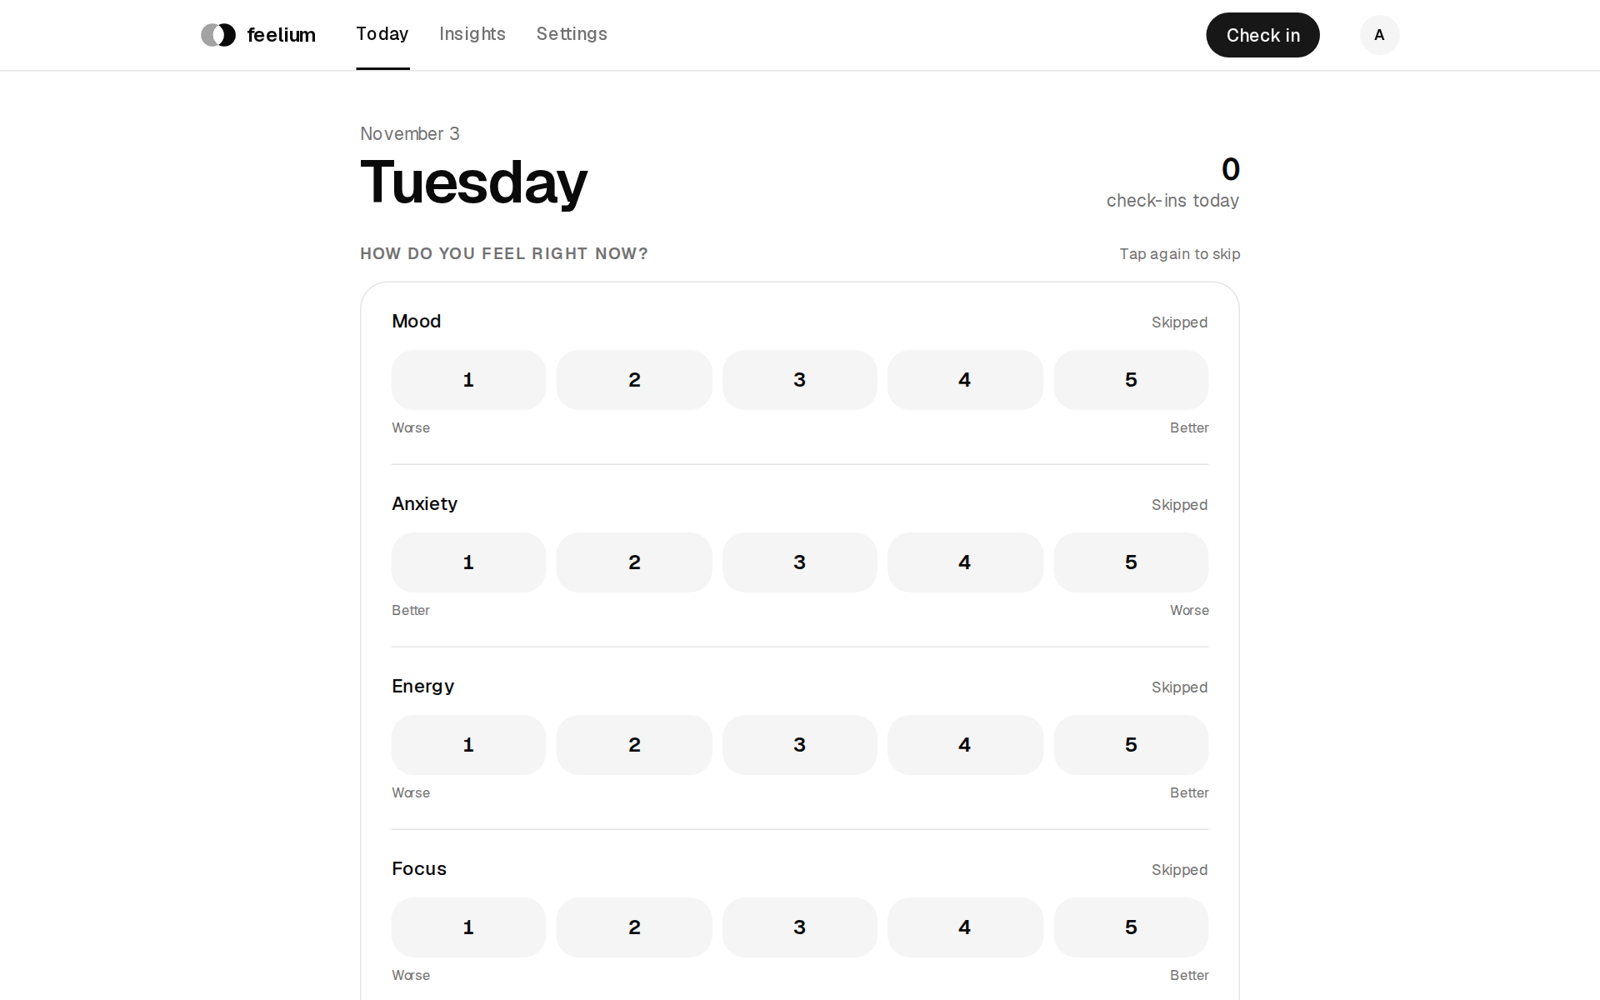
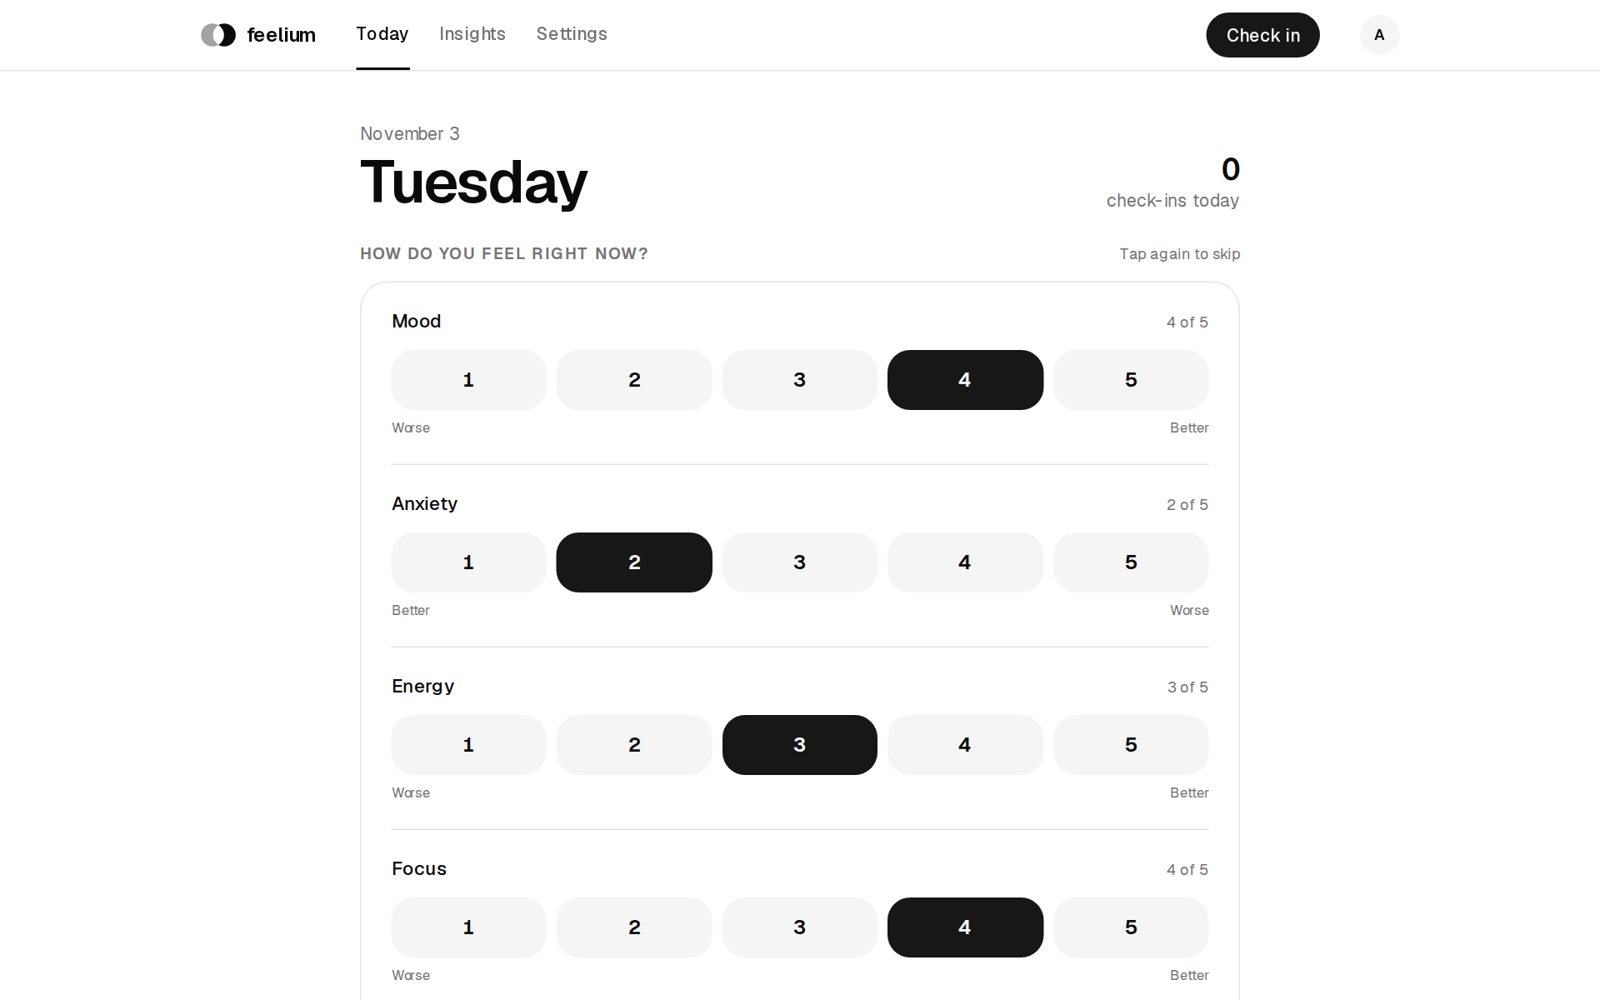
fix: the landing page's laptop screenshots no longer show as empty frames on phones
On a phone the 1600px laptop screenshots shrank to a mostly white frame. They now show from tablet width up, phones see the Insights phone screen instead, and the laptop Today screenshot shows a check-in in progress.

diff --git a/src/components/landing/landing-page.tsx b/src/components/landing/landing-page.tsx
@@ -139,8 +139,9 @@ export function LandingPage() {
             <p className="mt-2 max-w-2xl text-muted-foreground">
               Real screens from the app, with a sample month of data.
             </p>
-            <div className="mt-10">
-              <Browser src="/welcome/desktop-today.png" alt="Today on a laptop: the check-in, what you did today and earlier check-ins" />
+            {/* Laptop mockups only where they're legible; phones see the phone screens below. */}
+            <div className="mt-10 hidden md:block">
+              <Browser src="/welcome/desktop-today.png" alt="Today on a laptop: a check-in with mood 4, anxiety 2, energy 3 and focus 4" />
             </div>
             <ul className="mt-10 grid grid-cols-2 gap-6 md:grid-cols-4">
               {IN_USE.map((shot) => (
@@ -197,7 +198,12 @@ export function LandingPage() {
 
         <section className="mx-auto grid max-w-6xl items-center gap-12 px-4 py-20 md:grid-cols-2 md:px-8">
           <div className="min-w-0">
-            <Browser src="/welcome/desktop-insights.png" alt="Insights on a laptop comparing how you felt on days with and without each behavior" />
+            <div className="hidden md:block">
+              <Browser src="/welcome/desktop-insights.png" alt="Insights on a laptop comparing how you felt on days with and without each behavior" />
+            </div>
+            <div className="mx-auto w-full max-w-[300px] md:hidden">
+              <Phone src="/welcome/phone-insights.png" alt="Insights on a phone: your anxiety tended to be 1.5 points higher on days when you recorded doomscrolling" />
+            </div>
           </div>
           <div className="max-w-lg">
             <h2 className="text-3xl font-semibold tracking-tight">Patterns, in plain words</h2>

diff --git a/tests/e2e/redesign.spec.ts b/tests/e2e/redesign.spec.ts
@@ -170,3 +170,22 @@ test("Settings is one list: account, what you track, reminders, theme and prefer
   await expect(page.locator("html")).not.toHaveClass(/\bdark\b/);
   expect(await page.evaluate(() => document.documentElement.scrollWidth - innerWidth)).toBeLessThanOrEqual(0);
 });
+
+test("the landing page's screens all load, and laptop mockups only show where they're legible", async ({ page }, testInfo) => {
+  await page.goto("/");
+  // Bring every lazy image into view, then check each one decoded.
+  for (let y = 0; y < (await page.evaluate(() => document.body.scrollHeight)); y += 500) {
+    await page.evaluate((top) => scrollTo(0, top), y);
+  }
+  await page.waitForLoadState("networkidle");
+  const broken = await page.evaluate(() =>
+    [...document.images].filter((img) => img.checkVisibility() && (!img.complete || img.naturalWidth === 0)).map((img) => img.src),
+  );
+  expect(broken).toEqual([]);
+  const laptop = page.locator('img[src*="/welcome/desktop-"]');
+  if (testInfo.project.name === "mobile") {
+    for (const img of await laptop.all()) await expect(img).toBeHidden();
+  } else {
+    for (const img of await laptop.all()) await expect(img).toBeVisible();
+  }
+});
